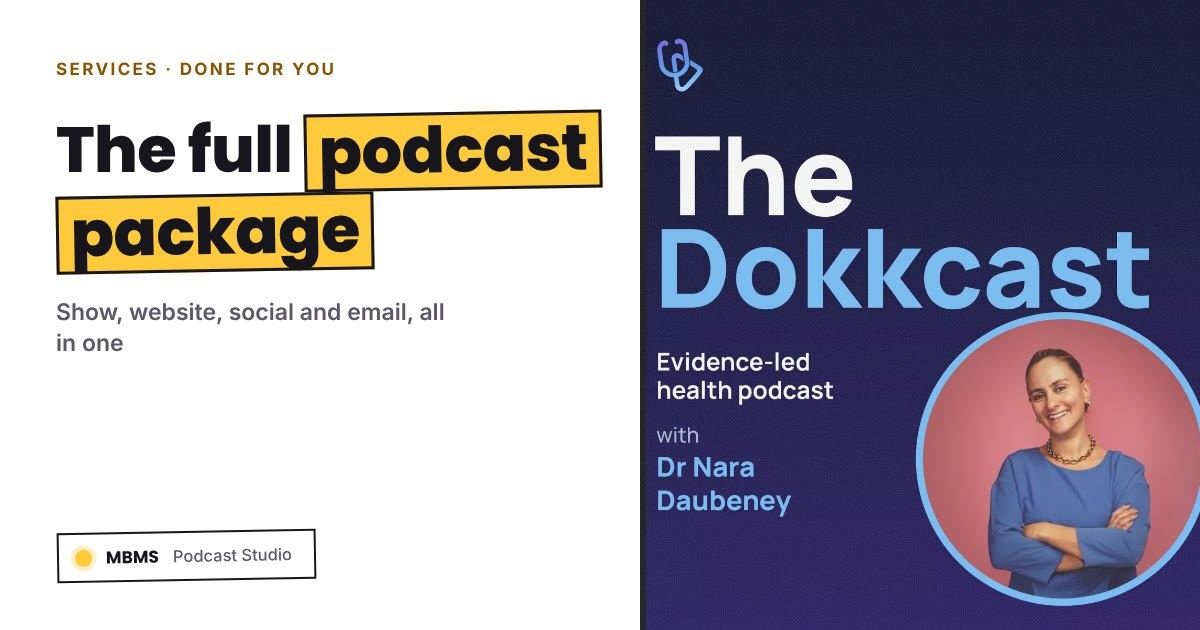
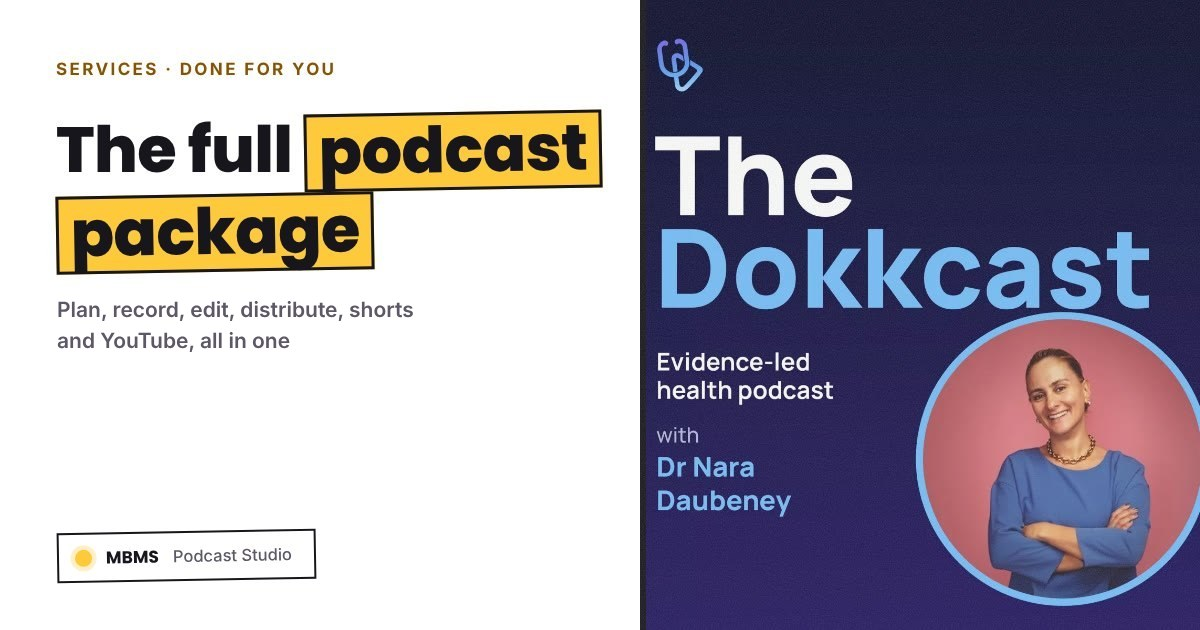
Rewrite full podcast package post to match today's six podcast services
Claude-Session: https://claude.ai/code/session_01L6d6nGR4aP8gKarFpjzbAa

Changed region(s): [[0.0308, 0.4825, 0.37, 0.573]]

diff --git a/blog/full-podcast-package/index.html b/blog/full-podcast-package/index.html
@@ -4,12 +4,12 @@
   <meta charset="utf-8">
   <meta name="viewport" content="width=device-width, initial-scale=1">
   <title>The full podcast package | MBMS Podcast Studio</title>
-  <meta name="description" content="What our full podcast package includes, from production and a podcast website to social assets, social media management and email, with two real examples.">
+  <meta name="description" content="What our full podcast package includes, from planning and recording to editing, distribution, shorts and YouTube growth, with two real examples.">
   <link rel="canonical" href="https://mbmspodcaststudio.com/blog/full-podcast-package/">
   <meta property="og:type" content="article">
   <meta property="og:site_name" content="MBMS Podcast Studio">
-  <meta property="og:title" content="The full podcast package: show, website, social and email, done for you">
-  <meta property="og:description" content="What our full podcast package includes, from production and a podcast website to social assets, social media management and email, with two real examples.">
+  <meta property="og:title" content="The full podcast package: planned, made, shared and grown for you">
+  <meta property="og:description" content="What our full podcast package includes, from planning and recording to editing, distribution, shorts and YouTube growth, with two real examples.">
   <meta property="og:url" content="https://mbmspodcaststudio.com/blog/full-podcast-package/">
   <meta property="og:image" content="https://mbmspodcaststudio.com/images/share/full-podcast-package-zine-3.jpg">
   <meta property="og:image:width" content="1200">
@@ -22,10 +22,10 @@
 {
   "@context": "https://schema.org",
   "@type": "BlogPosting",
-  "headline": "The full podcast package: show, website, social and email, done for you",
-  "description": "What our full podcast package includes, from production and a podcast website to social assets, social media management and email, with two real examples.",
+  "headline": "The full podcast package: planned, made, shared and grown for you",
+  "description": "What our full podcast package includes, from planning and recording to editing, distribution, shorts and YouTube growth, with two real examples.",
   "datePublished": "2026-10-15",
-  "dateModified": "2026-10-15",
+  "dateModified": "2026-11-17",
   "inLanguage": "en-GB",
   "image": "https://mbmspodcaststudio.com/images/share/full-podcast-package-zine-3.jpg",
   "url": "https://mbmspodcaststudio.com/blog/full-podcast-package/",
@@ -62,7 +62,7 @@
       "name": "What is included in the full podcast package?",
       "acceptedAnswer": {
         "@type": "Answer",
-        "text": "Podcast production, a podcast website, brand and creative assets for social channels, social media management and email campaigns. We make the show, build its home, design its look and run its channels."
+        "text": "Planning and coaching, recording, editing and transcripts, distribution to every major platform in video and audio, shorts and a monthly content calendar, and YouTube channel growth. We plan the show, make it, publish it and help it find new people."
       }
     },
     {
@@ -78,15 +78,15 @@
       "name": "Can we start smaller and add the rest later?",
       "acceptedAnswer": {
         "@type": "Answer",
-        "text": "Yes. Many businesses start with a pilot episode or a complete episode package, then add the website, social management and email once the show is up and running."
+        "text": "Yes. Many businesses start with a pilot episode or a complete episode package, then add shorts, the monthly calendar and YouTube growth once the show is up and running."
       }
     },
     {
       "@type": "Question",
-      "name": "Do you build podcast websites?",
+      "name": "Do you do paid ads, websites or email?",
       "acceptedAnswer": {
         "@type": "Answer",
-        "text": "Yes. We built thedokkcast.com for Udokk, with a page for every episode, and we built and run this website, including its enquiry forms, blog and media kit."
+        "text": "No. We stick to podcasts: making them, getting them everywhere and growing the audience organically. If you need more, we're happy to point you to people we trust."
       }
     }
   ]
@@ -151,51 +151,51 @@
       <div class="container prose">
         <a href="../" class="back-link">&larr;&nbsp;All posts</a>
         <p class="post-meta"><time datetime="2026-10-15">15 October 2026</time> &middot; Services &middot; By the MBMS team</p>
-        <h1>The full podcast package: show, website, social and email, done for you</h1>
+        <h1>The full podcast package: planned, made, shared and grown for you</h1>
       </div>
     </section>
 
     <article class="section post">
       <div class="container prose">
-        <p class="lede-left">A podcast on its own is a good start. A podcast with a proper home, a recognisable look, active social channels and an email list behind it is a marketing channel. Our full podcast package covers all of it, so you can focus on the conversation.</p>
+        <p class="lede-left">A podcast on its own is a good start. A podcast that’s planned around a goal, published everywhere people listen and watch, and cut into shorts that keep finding new people is a marketing channel. Our full podcast package covers all of it, so you can focus on the conversation.</p>
 
         <figure class="post-figure">
           <img src="../../images/dokkcast-cover-2.webp" width="600" height="600" alt="The Dokkcast cover art: an evidence-led health podcast with Dr Nara Daubeney" style="max-width: 420px; margin: 0 auto;">
-          <figcaption>The Dokkcast: we make the show and built its website</figcaption>
+          <figcaption>The Dokkcast: recorded, edited and shared by us</figcaption>
         </figure>
 
         <h2>What’s in the full package</h2>
         <ol class="steps">
-          <li><strong>Podcast production</strong>Planning each episode around a goal, recording in our London studio, at your office or remotely, editing, show notes and publishing to Spotify, Apple Podcasts and YouTube.</li>
-          <li><strong>A podcast website</strong>A home for the show with a page for every episode, players, show notes and transcripts, plus enquiry and sign-up forms that feed straight into your inbox or CRM, such as HubSpot. Built to be found in search, so every episode keeps bringing people in.</li>
-          <li><strong>Brand and creative assets</strong>Cover art in square, widescreen and vertical formats, social banners and profile pictures, clip and quote templates, and a media kit guests and partners can use.</li>
-          <li><strong>Social media management</strong>Captioned clips, LinkedIn posts and a four-week posting plan for every episode, published and managed on your channels.</li>
-          <li><strong>Email campaigns</strong>A launch email, a branded newsletter template and an email for every new episode, so your list hears about the show first.</li>
+          <li><strong>Plan and coach</strong>A show format built around what the podcast should do for your business, episode and guest plans, and honest feedback after every recording.</li>
+          <li><strong>Record</strong>In our London studio at Great Portland Street, at your office or venue with our mobile kit, or remotely with Riverside.</li>
+          <li><strong>Edit and transcribe</strong>Audio and video editing, an edited transcript, show notes and episode descriptions.</li>
+          <li><strong>Distribute</strong>Every episode in video and audio on YouTube, Spotify, Apple Podcasts, Amazon Music and the rest, with titles and descriptions written for each platform.</li>
+          <li><strong>Shorts and a monthly calendar</strong>Clips, captions and covers from every episode using our own app, Offcuts, laid out as a month of posts in Post Desk, ready for you to approve.</li>
+          <li><strong>YouTube channel growth</strong>Titles, thumbnails, playlists and Shorts that lead people back to the full episode, led by Peter. Organic growth, no paid ads.</li>
         </ol>
 
         <h2>Example 1: The Dokkcast for Udokk</h2>
-        <p>The Dokkcast is Udokk’s podcast. We record it at our London studio and <a href="../podcast-recording-at-your-office/">on location at their office</a>, produce every episode and publish it everywhere.</p>
-        <p>We also built the show’s website, <a href="https://thedokkcast.com" target="_blank" rel="noopener">thedokkcast.com</a>, with a page for every episode. Each release gets its own short clips for social, all pointing back to the episode page, so listeners, search engines and social followers all end up in the same place.</p>
+        <p>The Dokkcast is Udokk’s podcast. We record it at our London studio and <a href="../podcast-recording-at-your-office/">on location at their office</a>, edit every episode and publish it everywhere.</p>
+        <p>Each release gets its own short clips for social, made with <a href="../offcuts-month-of-marketing/">Offcuts</a>, so one recording turns into a month of posts that all point back to the full episode. Read more in <a href="../../case-studies/the-dokkcast/">our Dokkcast story</a>.</p>
 
-        <h2>Example 2: MBMS and The Podcast Pivot</h2>
-        <p>We do the same for ourselves. For our own business and our podcast, <a href="../introducing-the-podcast-pivot/">The Podcast Pivot</a>, we’ve built:</p>
+        <h2>Example 2: The Podcast Pivot</h2>
+        <p>We do the same for ourselves. For our own podcast, <a href="../introducing-the-podcast-pivot/">The Podcast Pivot</a>, we make:</p>
         <ul class="pc-list pros">
-          <li><strong>This website.</strong> Services and prices, a blog, enquiry forms, a playbook waitlist and a free downloadable checklist.</li>
-          <li><strong>A brand and media kit.</strong> Logos, LinkedIn banners, profile pictures, colours and fonts, all in our <a href="../../media-kit/">media kit</a>.</li>
-          <li><strong>Podcast artwork in every format.</strong> Square cover art for the podcast apps, widescreen for YouTube and vertical for Stories and Reels.</li>
-          <li><strong>Social content for every episode.</strong> Show notes, chapters, LinkedIn posts for our personal and company pages, and clips.</li>
+          <li><strong>Podcast artwork in every format.</strong> Square cover art for the podcast apps, widescreen for YouTube and vertical for Stories and Reels, all in our <a href="../../media-kit/">media kit</a>.</li>
+          <li><strong>Show notes and chapters.</strong> So listeners can find the bit they want, and search engines can understand every episode.</li>
+          <li><strong>Clips for every episode.</strong> Short, captioned moments for YouTube Shorts, LinkedIn, Instagram and TikTok.</li>
         </ul>
-        <p>If you like what you see here, this is what we’d build for you. Read the full story in our <a href="../../case-studies/">MBMS case study</a>.</p>
+        <p>If you like what you see, this is what we’d do for your show. See more in <a href="../../case-studies/">our work</a>.</p>
 
         <h2>Who it’s for</h2>
         <ul class="question-list">
           <li>Businesses launching a podcast that want it done properly from day one</li>
-          <li>Teams with a show that’s running, but no website, social plan or email behind it</li>
-          <li>Marketing teams who want the podcast to feed their wider campaigns without adding to their workload</li>
+          <li>Teams with a show that’s running, but no time to clip it, post it or grow its YouTube channel</li>
+          <li>Marketing teams who want the podcast to feed their wider plans without adding to their workload</li>
         </ul>
 
         <h2>How it’s priced</h2>
-        <p>The full package is tailored to your show, because the right mix depends on how often you publish, which channels you use and what you already have. Not ready for all of it? Start with a <a href="../../services/#packages">pilot episode or a complete episode package</a> and add the rest later.</p>
+        <p>The full package is tailored to your show, because the right mix depends on how often you publish, which channels you use and what you already have. Not ready for all of it? Start with a <a href="../../services/#packages">pilot episode from £750 or a complete episode package from £950</a> and add the rest later.</p>
 
         <div class="download-box">
           <img src="../../media-kit/files/mbms-profile-400.png" width="400" height="400" loading="lazy" alt="The MBMS logo">
@@ -210,7 +210,7 @@
         <div class="faq-list post-faq">
           <details>
             <summary>What is included in the full podcast package?</summary>
-            <p>Podcast production, a podcast website, brand and creative assets for social channels, social media management and email campaigns. We make the show, build its home, design its look and run its channels.</p>
+            <p>Planning and coaching, recording, editing and transcripts, distribution to every major platform in video and audio, shorts and a monthly content calendar, and YouTube channel growth. We plan the show, make it, publish it and help it find new people.</p>
           </details>
           <details>
             <summary>How much does the full podcast package cost?</summary>
@@ -218,17 +218,17 @@
           </details>
           <details>
             <summary>Can we start smaller and add the rest later?</summary>
-            <p>Yes. Many businesses start with a pilot episode or a complete episode package, then add the website, social management and email once the show is up and running.</p>
+            <p>Yes. Many businesses start with a pilot episode or a complete episode package, then add shorts, the monthly calendar and YouTube growth once the show is up and running.</p>
           </details>
           <details>
-            <summary>Do you build podcast websites?</summary>
-            <p>Yes. We built thedokkcast.com for Udokk, with a page for every episode, and we built and run this website, including its enquiry forms, blog and media kit.</p>
+            <summary>Do you do paid ads, websites or email?</summary>
+            <p>No. We stick to podcasts: making them, getting them everywhere and growing the audience organically. If you need more, we're happy to point you to people we trust.</p>
           </details>
         </div>
 
         <div class="post-cta">
           <h2>Your podcast, done for you</h2>
-          <p>We make the show, build its home, design its look and run its channels.</p>
+          <p>We plan the show, make it, publish it everywhere and help it find new people.</p>
           <p class="post-cta-lead">You bring the conversation. We do the rest.</p>
           <div class="hero-actions" style="justify-content: flex-start">
             <a href="../../work-with-us/?interest=Free%2020-minute%20podcast%20chat#contact" class="btn">Plan your podcast</a>

diff --git a/blog/index.html b/blog/index.html
@@ -48,7 +48,7 @@
     },
     {
       "@type": "BlogPosting",
-      "headline": "The full podcast package: show, website, social and email, done for you",
+      "headline": "The full podcast package: planned, made, shared and grown for you",
       "url": "https://mbmspodcaststudio.com/blog/full-podcast-package/"
     },
     {
@@ -223,8 +223,8 @@
               <img loading="lazy" src="../images/dokkcast-cover-2.webp" width="600" height="600" alt="The Dokkcast cover art: an evidence-led health podcast with Dr Nara Daubeney">
               <div class="post-card-body">
                 <p class="post-meta"><time datetime="2026-10-15">15 October 2026</time> &middot; Services</p>
-                <h2>The full podcast package: show, website, social and email, done for you</h2>
-                <p>Production, a podcast website, social assets, social media management and email, with The Dokkcast and our own show as examples.</p>
+                <h2>The full podcast package: planned, made, shared and grown for you</h2>
+                <p>Planning, recording, editing, distribution, shorts and YouTube growth, with The Dokkcast and our own show as examples.</p>
                 <span class="text-link">Read the post&nbsp;&rarr;</span>
               </div>
             </a>
